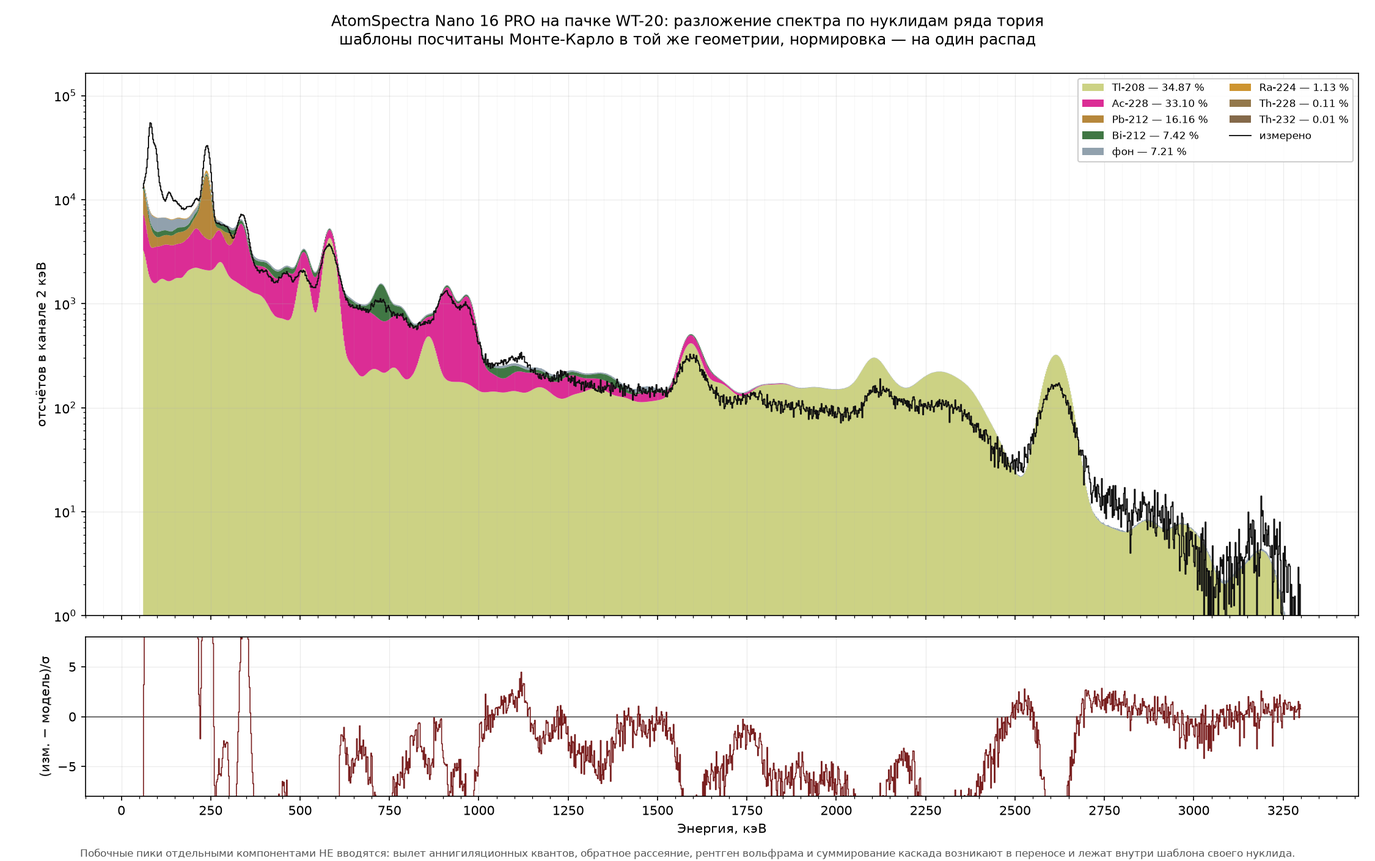
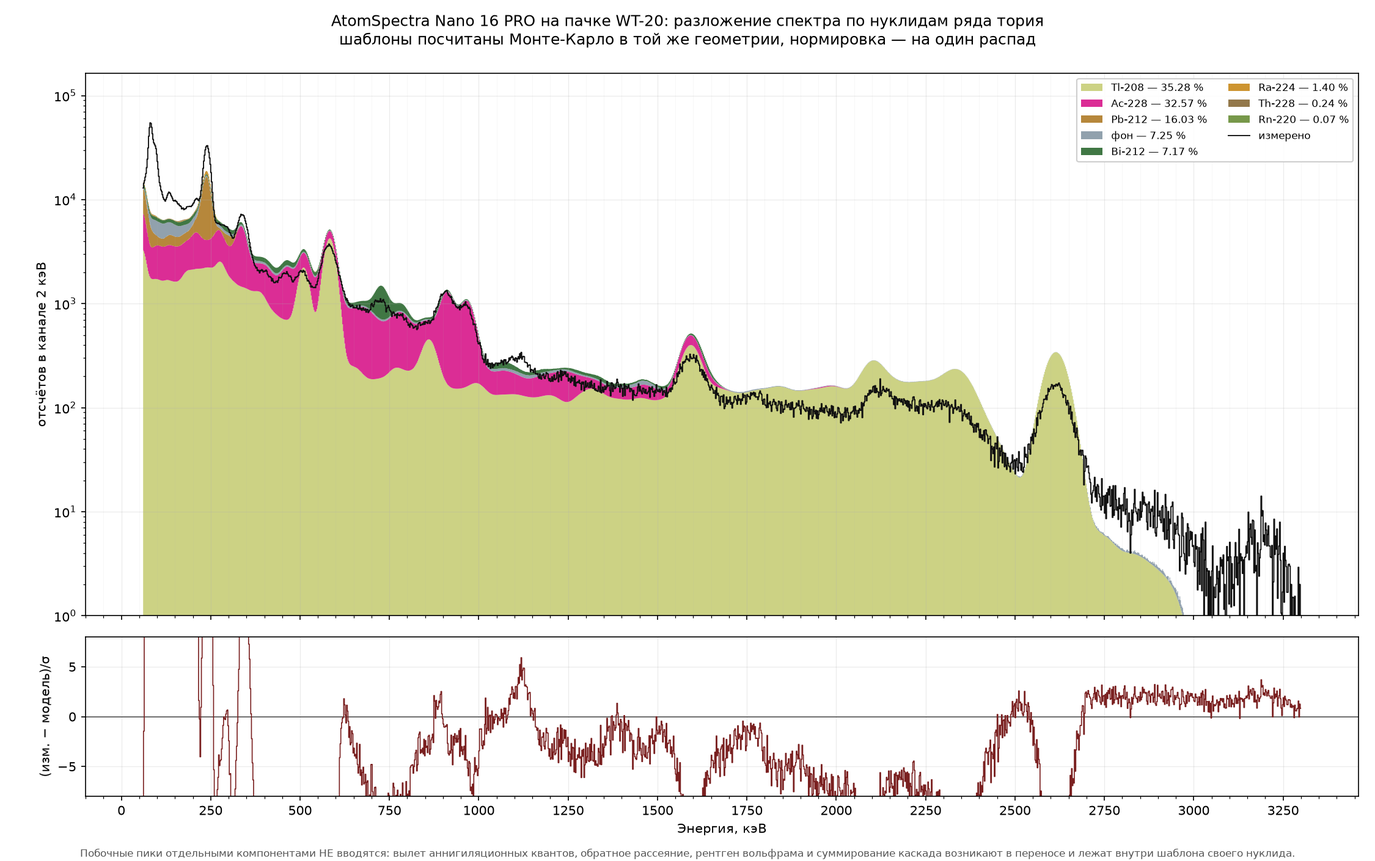
WT-20: шаг укладки 8,10 мм по замеру оператора, отмена своего замера 6,15
Оператор измерил шаг по профилю яркости поперёк прутков: медианный период
53,3 px при ширине прутка 20,8-21,0 px = 3,2 мм, три независимые сканлинии
дали 8,11 / 8,21 / 8,21 мм при погрешности ~0,3 мм. Отдельные промежутки
7,0-9,3 мм, картина «узкий-широкий» повторяется на всех сканлиниях — прутки
лежат в гнёздах свободно. Номинал гнёзд, судя по всему, 8 мм.

Мой замер (analysis/measure_pack_pitch.py) ОТМЕНЁН. Период у обоих совпал
(52 против 53,3 px), разошлась ширина прутка: порог «доля отсчётов ниже
средней яркости» захватывал затенённые рёбра лотка и завышал ширину в 1,7
раза. Правило записано в скрипт и методику: период по автокорреляции надёжен,
ширину брать сегментацией краёв.

Цена правки: пачка 76,1 мм против корпуса 42 мм, полная эффективность упала
на 11-15 % (Ac-228 0,019738 -> 0,017545, Pb-212 0,006755 -> 0,005773),
активности выросли на столько же: подгонка даёт 0,38 номинала против 0,34.

Расхождение линий сузилось, но осталось: Tl-208 по 583,19 против 2614,51
даёт 1,96 раза (было 2,24). Модельное отношение площадей 3,51 -> 4,01 при
измеренном 7,84.

Заведён /asn16/cryY — сканирование по толщине кристалла ПО ПУЧКУ, только для
диагностики. Повод: слепой тест на Cs-137 просвечивал кристалл вдоль оси Z на
60 мм, а здесь излучение входит через грань 18 x 60 и проходит 15 мм — этот
размер сверкой не проверялся никогда, а задаёт скорость падения эффективности
с энергией (пробег в CsI 2,7 см на 583 кэВ против 5,5 см на 2614).
[…]

diff --git a/detectors/AtomSpectra-Nano-16-PRO/analysis/wt20_report_template.html b/detectors/AtomSpectra-Nano-16-PRO/analysis/wt20_report_template.html
@@ -108,7 +108,22 @@ ul{max-width:68ch;} li{margin:.3em 0;}
 <div id="cards" class="grid"></div>
 <div class="note" id="verdict"></div>
 
-<h2>1. Что и как считалось</h2>
+<h2>1. Геометрия замера</h2>
+<figure id="figsetup"></figure>
+<h3>Шаг укладки: два замера по фотографии, один отменён</h3>
+<p>Ни этикетка, ни каталог шага не сообщают, а он входит в результат дважды:
+задаёт долю активности под кристаллом и самоэкранирование соседним стержнем.
+Масштаб задаёт сам пруток — его диаметр известен по этикетке, поэтому меряется
+безразмерное отношение «период укладки / ширина прутка».</p>
+<figure id="figscan"></figure>
+<p>Период оба замера дали один и тот же, 52 против 53,3 px. Разошлась ширина
+прутка: порог «доля отсчётов ниже средней яркости» захватывал затенённые рёбра
+лотка вместе с прутком и завышал ширину примерно в 1,7 раза, откуда вышло
+6,15 мм. Сегментация краёв на профиле яркости даёт 20,8–21,0 px = 3,2 мм и
+шаг 8,1 мм — это значение и принято. Правило на будущее: период по
+автокорреляции считается надёжно, ширину надо брать сегментацией краёв.</p>
+
+<h2>2. Что и как считалось</h2>
 <p>Шаблон — это спектр энерговыделения в кристалле, посчитанный для распадов
 <em>одного</em> звена ряда, разыгранных равномерно по объёму стержней, и
 нормированный на один распад. Тогда коэффициенты разложения сразу дают
@@ -234,6 +249,21 @@ table('emit', ['нуклид','линия, кэВ','МАГАТЭ, %','Geant4, %'
  ['Tl-208','2614,51','99,75','99,74'],['Tl-208','583,19','85,00','84,83'],
  ['Tl-208','510,77','22,60','22,57'],['Pb-212','238,63','43,60','43,48'],
  ['Ac-228','911,20','25,80','26,78'],['Bi-212','727,33','6,67','6,71']]);
+
+// ---------- картинки ----------
+function figure(id, src, cap){
+  const el = document.getElementById(id);
+  if(!el) return;
+  if(!src){ el.remove(); return; }
+  el.innerHTML = `<img src="${src}" alt="${cap}" style="width:100%;
+    border:1px solid var(--rule);border-radius:3px"><figcaption>${cap}</figcaption>`;
+}
+figure('figsetup', D.img_setup,
+  'Разрез постановки: пачка под прибором, прибор на силиконовых ножках 3,5 мм. '
+  + 'Размеры рисунок читает из исходников модели, а не дублирует.');
+figure('figscan', D.img_scan,
+  'Контрольная картинка замера шага: сканлиния поперёк прутков и профиль '
+  + 'яркости вдоль неё. Порог сегментации показан пунктиром.');
 
 // ---------- график ----------
 const names = D.names||[], spec = D.spec||[];

diff --git a/detectors/AtomSpectra-Nano-16-PRO/analysis/draw_wt20_setup.py b/detectors/AtomSpectra-Nano-16-PRO/analysis/draw_wt20_setup.py
@@ -168,8 +168,8 @@ gs = fig.add_gridspec(2, 1, height_ratios=[1.15, 1], hspace=0.20,
 ax = fig.add_subplot(gs[0])
 ax.set_aspect("equal")
 ax.axis("off")
-ax.set_title("Поперёк стержней (плоскость Z = 0): прибор лежит на пенале "
-             "СТОРОНОЙ ПЛАТЫ — излучение входит через дно корпуса",
+ax.set_title("Поперёк стержней (плоскость Z = 0): прибор СТОРОНОЙ ПЛАТЫ, "
+             "стоит на ножках — излучение входит через дно корпуса и плату",
              fontsize=9.5, pad=6)
 
 rect(ax, -xBody, xBody, yBodyB, yBodyT, C_AL, label="корпус Al")
@@ -249,17 +249,16 @@ ax2.legend(h2, lab2, loc="upper right", fontsize=7.4, frameon=False, ncol=2,
 
 fig.suptitle("AtomSpectra Nano 16 PRO на пачке электродов WT-20 — постановка "
              "к согласованию (размеры в мм)", fontsize=11.5, y=0.985)
-fig.text(0.045, 0.952,
-         "ПО ЭТИКЕТКЕ ПАЧКИ: «Tungsten Electrodes 3.2 mm × 175 mm, 10 Pieces, "
-         "2%%Thoriated(WT20), ANSI/AWS A5.12M-98, ISO 6848». "
-         "ПО СЛОВАМ ОПЕРАТОРА: прибор лежит стороной платы,\nвдоль электродов, "
-         "по центру; крышка пенала — акрил %s мм; прибор СТОИТ НА НОЖКАХ "
-         "(силиконовые пуговички 3–4 мм по углам). "
-         "ДОПУЩЕНИЯ: шаг укладки %s мм (один слой, вплотную), зазор %s мм, "
-         "плотность ThO2 %s г/см³.\n"
-         "Расчётная плотность сплава %s г/см³ (правило смеси), объём пачки "
-         "%s см³, масса %s г. Тория в пачке %s г при номинале 2 %% масс. "
-         "(допуск ISO 6848 — 1,70…2,20 %%)."
+fig.text(0.045, 0.955,
+         "ЭТИКЕТКА ПАЧКИ: «Tungsten Electrodes 3.2 mm × 175 mm, 10 Pieces, "
+         "2%%Thoriated(WT20), ANSI/AWS A5.12M-98, ISO 6848».\n"
+         "ОПЕРАТОР: прибор стороной платы, вдоль электродов, по центру; "
+         "крышка пенала акрил %s; ножки-пуговички 3–4 мм по углам; "
+         "шаг укладки %s ЗАМЕРЕН ПО ФОТО (±0,3), гнёзда свободные.\n"
+         "ДОПУЩЕНИЯ: зазор стержни–крышка %s, плотность ThO2 %s г/см³ "
+         "(PNNL-15870). Сплав %s г/см³ по правилу смеси, пачка %s см³ = "
+         "%s г, тория %s г при номинале 2 %% масс. (допуск ISO 6848 "
+         "1,70…2,20 %%)."
          % (ru(WALL), ru(PITCH), ru(GAP), ru(RHO_THO2), ru(RHO_ROD, 3),
             ru(V_PACK, 3), ru(M_PACK, 1),
             ru(M_PACK * _f * 232.038 / 264.038, 3)),

diff --git a/detectors/AtomSpectra-Nano-16-PRO/analysis/wt20_depth_ratio.py b/detectors/AtomSpectra-Nano-16-PRO/analysis/wt20_depth_ratio.py
@@ -1,0 +1,68 @@
+# -*- coding: utf-8 -*-
+"""Отношение площадей Tl-208 583,19 / 2614,51 против толщины кристалла по пучку.
+
+Диагностика расхождения: измеренное отношение 7,84, модель при паспортных
+15,00 мм даёт 3,51. Отношение не зависит ни от активности, ни от нормировки
+источника — только от отклика. Здесь считается, как оно ведёт себя с толщиной
+кристалла ПО ПУЧКУ (в этой постановке излучение входит через грань 18 × 60 мм).
+
+Окна те же, что в `wt20_lines.py`: ±1 ПШПВ, подложка по двум боковым окнам.
+
+    python analysis/wt20_depth_ratio.py <каталог прогона> [измеренное отношение]
+"""
+import os
+import re
+import sys
+
+import numpy as np
+
+_HERE = os.path.dirname(os.path.abspath(__file__))
+sys.path.insert(0, _HERE)
+
+import wt20_lines as L                                            # noqa: E402
+import wt20_unfold as U                                           # noqa: E402
+
+
+def main():
+    if len(sys.argv) < 2:
+        raise SystemExit(__doc__)
+    d = sys.argv[1]
+    meas = float(sys.argv[2]) if len(sys.argv) > 2 else 7.84
+
+    edges = np.arange(0.0, U.E_MAX + U.E_STEP, U.E_STEP)
+    centres = 0.5 * (edges[:-1] + edges[1:])
+    print("%8s %12s %12s %10s %12s"
+          % ("cryY, мм", "583 на расп", "2614 на расп", "отношение",
+             "изм./модель"))
+    rows = []
+    for fn in sorted(os.listdir(d)):
+        m = re.match(r"Tl208_cryY([0-9.]+)\.csv$", fn)
+        if not m:
+            continue
+        head, e, c = U.read_template(os.path.join(d, fn))
+        n = float(head["N_primaries"])
+        sp = U.broaden(e, c / n, centres, 200.0, 2.0)
+        w1 = L.window_area(sp, centres, 583.19)
+        w2 = L.window_area(sp, centres, 2614.51)
+        if not w1 or not w2 or w2["net"] <= 0:
+            continue
+        r = w1["net"] / w2["net"]
+        rows.append((float(m.group(1)), r))
+        print("%8.1f %12.4e %12.4e %10.2f %12.2f"
+              % (float(m.group(1)), w1["net"], w2["net"], r, meas / r))
+    if len(rows) >= 2:
+        rows.sort()
+        xs = [x for x, _ in rows]
+        ys = [y for _, y in rows]
+        print("\nизмеренное отношение %.2f; линейная интерполяция по сетке "
+              "даёт толщину %s"
+              % (meas,
+                 ("%.1f мм" % float(np.interp(meas, ys[::-1], xs[::-1])))
+                 if min(ys) <= meas <= max(ys)
+                 else "ВНЕ диапазона сканирования — расхождение толщиной не "
+                      "объясняется"))
+    return 0
+
+
+if __name__ == "__main__":
+    sys.exit(main())

diff --git a/detectors/AtomSpectra-Nano-16-PRO/geometry/main.cc b/detectors/AtomSpectra-Nano-16-PRO/geometry/main.cc
@@ -599,6 +599,7 @@ class OutMessenger : public G4UImessenger {
   G4UIcmdWithAString* fWinCmd;
   G4UIcmdWithAString* fPackCmd;
   G4UIcmdWithAString* fTabCmd;
+  G4UIcmdWithAString* fCryYCmd;
 public:
   OutMessenger(RunAct* r, ASN16Detector* d) : fRun(r), fDet(d) {
     fDir = new G4UIdirectory("/asn16/");
@@ -632,12 +633,40 @@ public:
     fTabCmd->SetGuidance("on|off — столешница под пеналом (рассеиватель)");
     fTabCmd->SetCandidates("on off");
     fTabCmd->AvailableForStates(G4State_PreInit, G4State_Idle);
+    // ТОЛЩИНА КРИСТАЛЛА ПО ПУЧКУ — только для ДИАГНОСТИКИ. В постановке с
+    // пачкой излучение входит через грань 18 x 60 и проходит cryY, тогда как
+    // опорный замер Cs-137 просвечивал кристалл вдоль оси Z на 60 мм. Значит
+    // размер 15 мм этой сверкой НИКОГДА не проверялся, а именно он задаёт, как
+    // быстро падает эффективность с энергией. Команда позволяет измерить эту
+    // чувствительность, а не рассуждать о ней. Публикуемые числа считаются
+    // ТОЛЬКО при паспортных 15,00 мм.
+    fCryYCmd = new G4UIcmdWithAString("/asn16/cryY", this);
+    fCryYCmd->SetGuidance("толщина кристалла по Y, мм (диагностика!)");
+    fCryYCmd->AvailableForStates(G4State_PreInit, G4State_Idle);
   }
   ~OutMessenger() override {
-    delete fTabCmd; delete fPackCmd; delete fWinCmd; delete fCmd; delete fDir;
+    delete fCryYCmd; delete fTabCmd; delete fPackCmd; delete fWinCmd;
+    delete fCmd; delete fDir;
   }
   void SetNewValue(G4UIcommand* c, G4String v) override {
     if (c == fCmd) { fRun->fOut = v; return; }
+    if (c == fCryYCmd && fDet) {
+      const double want = std::atof(v.c_str());
+      if (want <= 0.0 || want > 24.0) {
+        std::fprintf(stderr, "ОТКАЗ: /asn16/cryY %g вне разумного (0…24 мм)\n",
+                     want);
+        return;
+      }
+      if (want == fDet->fGeom.cryY) return;
+      fDet->fGeom.cryY = want;
+      if (auto* rm = G4RunManager::GetRunManager()) {
+        rm->ReinitializeGeometry(true);
+        rm->GeometryHasBeenModified();
+        std::printf("[cryY] толщина кристалла по пучку %.2f мм, геометрия "
+                    "перестроена — ЭТО ДИАГНОСТИКА, не паспорт\n", want);
+      }
+      return;
+    }
     if (c == fTabCmd && fDet) {
       const bool want = (v == "on");
       if (want == fDet->fGeom.table) return;

diff --git a/detectors/AtomSpectra-Nano-16-PRO/analysis/measure_pack_pitch.py b/detectors/AtomSpectra-Nano-16-PRO/analysis/measure_pack_pitch.py
@@ -17,11 +17,21 @@
   3. период берётся по автокорреляции профиля, доля металла — по порогу на
      среднем уровне; шаг/диаметр = 1 / доля металла.
 
+ОТКАЗ ЭТОГО МЕТОДА, ЗАФИКСИРОВАННЫЙ 06.08.2026. Шаг, полученный здесь (6,15 мм),
+ОТМЕНЁН замером оператора (8,1 мм). Период у обоих замеров совпал — 52 против
+53,3 px, — разошлась ШИРИНА СТЕРЖНЯ: порог «доля отсчётов ниже среднего»
+захватывает затенённые рёбра лотка вместе с прутком и завышает ширину примерно
+в 1,7 раза. Отношение шаг/диаметр вышло 1,46–1,92 вместо 2,55.
+
+Отсюда правило: период по автокорреляции этот метод считает надёжно, а ШИРИНУ
+надо брать сегментацией краёв прутка на профиле яркости (у оператора —
+20,8–21,0 px при трёх независимых сканлиниях, разброс результата 8,11 / 8,21 /
+8,21 мм). Порог по средней яркости для ширины не годится.
+
 ГРАНИЦЫ. Метод даёт ОТНОШЕНИЕ, а не миллиметры: если этикеточные 3,2 мм
 неверны, вместе с ними уедет и шаг. Перспектива кадра меняет масштаб поперёк
-поля, поэтому участок берётся коротким. Точность ~10 %: порог на «синеве»
-двигает долю металла на несколько процентов, а край стержня в кадре размыт.
-Проверка линейкой отменяет этот замер.
+поля, поэтому участок берётся коротким. Замер линейкой отменяет любой замер по
+фотографии.
 
     python analysis/measure_pack_pitch.py <фото> [x0 x1 y0 y1] [диаметр, мм]
 

diff --git a/detectors/AtomSpectra-Nano-16-PRO/analysis/wt20_report.py b/detectors/AtomSpectra-Nano-16-PRO/analysis/wt20_report.py
@@ -57,6 +57,20 @@ def ru(x, nd=1):
     return ("%.*f" % (nd, x)).replace(".", ",")
 
 
+def data_uri(path):
+    """Картинка -> data:URI. Страница обязана быть самодостаточной: внешние
+    адреса на ней не грузятся, а file:// не переживёт передачи."""
+    import base64
+    if not os.path.exists(path):
+        return ""
+    ext = os.path.splitext(path)[1].lower()
+    mime = {".png": "image/png", ".jpg": "image/jpeg",
+            ".jpeg": "image/jpeg"}.get(ext, "application/octet-stream")
+    with open(path, "rb") as f:
+        return "data:%s;base64,%s" % (mime,
+                                      base64.b64encode(f.read()).decode())
+
+
 def main():
     if len(sys.argv) < 3:
         raise SystemExit(__doc__)
@@ -69,8 +83,14 @@ def main():
     cal = read_csv(os.path.join(d, "calibration_check.csv"))
     head = read_head(os.path.join(tdir, "Tl208.csv"))
 
+    ref = os.path.normpath(os.path.join(_HERE, "..", "reference"))
+    draw = os.path.normpath(os.path.join(_HERE, "..", "drawings"))
     payload = dict(names=names, spec=spec, acts=acts, lines=lines, cal=cal,
-                   head=head)
+                   head=head,
+                   img_scan=data_uri(os.path.join(ref,
+                                                  "wt20-pitch-scanline.jpg")),
+                   img_setup=data_uri(os.path.join(draw,
+                                                   "nano16pro_wt20_setup.png")))
     tpl = io.open(os.path.join(_HERE, "wt20_report_template.html"),
                   encoding="utf-8").read()
     html = tpl.replace("/*__DATA__*/", json.dumps(payload, ensure_ascii=False))

diff --git a/detectors/AtomSpectra-Nano-16-PRO/geometry/ASN16Detector.cc b/detectors/AtomSpectra-Nano-16-PRO/geometry/ASN16Detector.cc
@@ -291,8 +291,13 @@ G4VPhysicalVolume* ASN16Detector::Construct() {
     std::printf("  сплав %.3f г/см3 (W + %.1f %% масс. ThO2), объём пачки "
                 "%.4f см3, масса %.2f г\n",
                 rhoRod, g.wt20ThO2, g.wt20N * vRod, fPackW);
-    std::printf("  ось стержней y = %+.2f мм, дно корпуса y = %+.2f мм, "
-                "просвет %.2f мм\n", yRod, yTopFace, yTopFace - yRod - r);
+    // Печатаются ТРИ плоскости, а не две. Пока прибор «лежал», дно корпуса и
+    // верх пенала совпадали, и одной строки хватало; с ножками это разные
+    // уровни, и печатать верх пенала под именем дна корпуса значит подсунуть
+    // в журнал верное число под чужим именем.
+    std::printf("  ось стержней y = %+.2f, верх пенала y = %+.2f, дно корпуса "
+                "y = %+.2f (ножки %.2f), просвет пенал-стержень %.2f мм\n",
+                yRod, yTopFace, BottomFaceY(), g.feetH, yTopFace - yRod - r);
     std::printf("  на пути от стержня до кристалла: пенал %.2f мм %s, дно "
                 "корпуса %.2f мм %s, плата %.2f мм %s\n",
                 g.wt20Wall, g.matCase.c_str(), g.wBot, g.matBody.c_str(),

diff --git a/detectors/AtomSpectra-Nano-16-PRO/docs/wt20-method.md b/detectors/AtomSpectra-Nano-16-PRO/docs/wt20-method.md
@@ -41,20 +41,48 @@
 допущение «лежат вплотную» (шаг 3,3 мм) оператор оспорил, и оно оказалось
 неверным.
 
-Инструмент — `analysis/measure_pack_pitch.py`. Масштаб задаёт сам стержень:
-диаметр известен по этикетке, поэтому меряется БЕЗРАЗМЕРНОЕ отношение
-«период укладки / ширина стержня», линейка в кадре не нужна. Стержень
-отделяется от пенала по синеве (B − R), направление стержней — перебором угла,
-период — по автокорреляции профиля.
+Масштаб задаёт сам стержень: диаметр известен по этикетке, поэтому меряется
+БЕЗРАЗМЕРНОЕ отношение «период укладки / ширина стержня», и линейка в кадре не
+нужна.
 
-Результат по фотографии нашей пачки: шаг / диаметр = 1,92, то есть **шаг
-6,13 мм, зазор между поверхностями 2,93 мм, вся пачка 58,4 мм** — шире прибора
-(42 мм). Принято 6,15 мм.
+**Принято: шаг 8,10 мм** (ОПЕРАТОР, 06.08.2026). Метод: профиль яркости поперёк
+прутков сразу за границей пластиковой крышки на `6971217310.webp`; масштаб — по
+ширине прутка на той же линии, 20,8–21,0 px = 3,2 мм (0,152–0,154 мм/px);
+медианный период 53,3 px. Три независимые сканлинии: 8,11 / 8,21 / 8,21 мм,
+погрешность ~±0,3 мм. Отдельные промежутки 7,0–9,3 мм, причём картина
+«узкий–широкий» повторяется на всех сканлиниях — это реальные положения прутков
+в свободных гнёздах, а не шум. Номинал гнёзд, судя по всему, 8 мм
+(10 × 8 = 80 мм по ширине пенала).
 
-Точность метода ~10 %: порог по синеве двигает долю металла на несколько
-процентов, край стержня в кадре размыт, перспектива меняет масштаб поперёк
-кадра. **Замер линейкой отменяет этот результат** — он остаётся до тех пор,
-пока не сделан.
+Вся пачка 9 · 8,10 + 3,2 = **76,1 мм**, почти вдвое шире прибора (42 мм).
+
+**Два отменённых значения — с причиной, чтобы не переигрывать заново:**
+
+| Значение | Откуда | Почему отменено |
+|---|---|---|
+| 3,30 мм | допущение «лежат вплотную» | оспорено оператором по фотографии |
+| 6,15 мм | `analysis/measure_pack_pitch.py` | ширина прутка завышена в 1,7 раза |
+
+Разбор второго отказа важнее самого числа. Период оба замера дали один и тот же
+(52 против 53,3 px) — разошлась ШИРИНА СТЕРЖНЯ. Порог «доля отсчётов ниже
+средней яркости» захватывает затенённые рёбра лотка вместе с прутком, и
+отношение шаг/диаметр вышло 1,46–1,92 вместо 2,55. Отсюда правило: период по
+автокорреляции считается надёжно, а ширину надо брать СЕГМЕНТАЦИЕЙ КРАЁВ на
+профиле яркости, а не порогом по среднему.
+
+Фотография `6240541491.webp` (наша пачка с этикеткой) для этого замера не
+годится вовсе: светлые прутки на белом фоне, порог ловит теневые кромки вместо
+тел прутков.
+
+Контрольная картинка замера — `reference/wt20-pitch-scanline.jpg`: сканлиния
+поперёк прутков и профиль яркости вдоль неё с показанным порогом сегментации.
+
+**Что в этом замере остаётся непроверенным.** Масштаб взят по ширине СВЕТЛОЙ
+полосы, принятой за пруток целиком. Если светлая полоса — блик, а не полный
+силуэт, масштаб мм/px занижен, и шаг в миллиметрах завышен; мой отменённый
+замер ошибался ровно в другую сторону. Оба замера сходятся в периоде и
+расходятся в ширине, поэтому вопрос закроет только линейка: ширина пенала или
+расстояние между осями крайних прутков (задача №6).
 
 ### 1.2. Материал стержня
 
@@ -305,17 +333,30 @@ Tl-208 по 583,19 даёт 7705 Бк, по 2614,51 — 3445 Бк. Это отн
 ОТНОСИТЕЛЬНОМ отклике между 583 и 2614 кэВ в 2,2 раза, и это надо закрыть до
 того, как называть активность.
 
-Два кандидата, оба не проверены:
+Кандидаты и их состояние:
 
-1. **Форма линии.** Модельные пики уширены чистой гауссианой, у реального
-   CsI(Tl) с SiPM есть низкоэнергетический хвост. Окно ±1 ПШПВ забирает 76 %
-   гауссианы и меньшую долю линии с хвостом, причём тем меньшую, чем выше
-   энергия. Проверяется подгонкой модели «гаусс + хвост + ступень» (в
-   SpectraVibe она есть — `gamma.peaks.peak_image`).
+1. **Форма линии — ОСЛАБЛЕН.** Гипотеза была: модель уширяет чистой гауссианой,
+   у реального CsI(Tl) с SiPM есть низкоэнергетический хвост, и окно ±1 ПШПВ
+   забирает тем меньшую долю, чем выше энергия. Проверено подгонкой гауссианы к
+   измеренным пикам: площадь гауссианы против оконной суммы даёт 276 233 против
+   288 057 на 238,6 кэВ, 53 377 против 46 809 на 583,2 и 5841 против 5967 на
+   2614,5 — расхождение до 15 %, а не в разы. Хвост, если он есть, настолько
+   пологий, что гауссиана его не видит; проверять надо подгонкой «гаусс + хвост
+   + ступень» (`gamma.peaks.peak_image`), но объяснить фактор 2,2 одним хвостом
+   уже не получается.
 2. **Самопоглощение в вольфраме.** На 238 кэВ выходит лишь поверхностный слой
    стержня, на 2614 — весь объём, поэтому ошибка в диаметре или в распределении
    тория по сечению сдвигает отношение линий сильнее всего. Диаметр по этикетке
    3,2 мм, но в этой же папке лежит фотография пачки с «2,4 × 175 мм».
+3. **Толщина кристалла ПО ПУЧКУ — главный кандидат, проверяется прогоном.**
+   В этой постановке излучение входит через грань 18 × 60 мм и проходит
+   cryY = 15 мм. Опорный замер Cs-137, которым модель проверена (слепой тест,
+   согласие 1 % на 662–1500 кэВ), просвечивал кристалл ВДОЛЬ оси Z на 60 мм —
+   размер 15 мм этой сверкой не проверялся никогда. А задаёт он ровно то, что
+   разошлось: длина свободного пробега в CsI на 583 кэВ 2,7 см, на 2614 —
+   5,5 см, и обрезание пути бьёт по жёсткой линии сильнее. Сканирование по
+   толщине — `macros/wt20_depth_scan.mac`, команда `/asn16/cryY` заведена
+   ТОЛЬКО для диагностики: публикуемые числа считаются при паспортных 15,00 мм.
 
 ### 4.5. Столешница проверена и как объяснение снята
 
